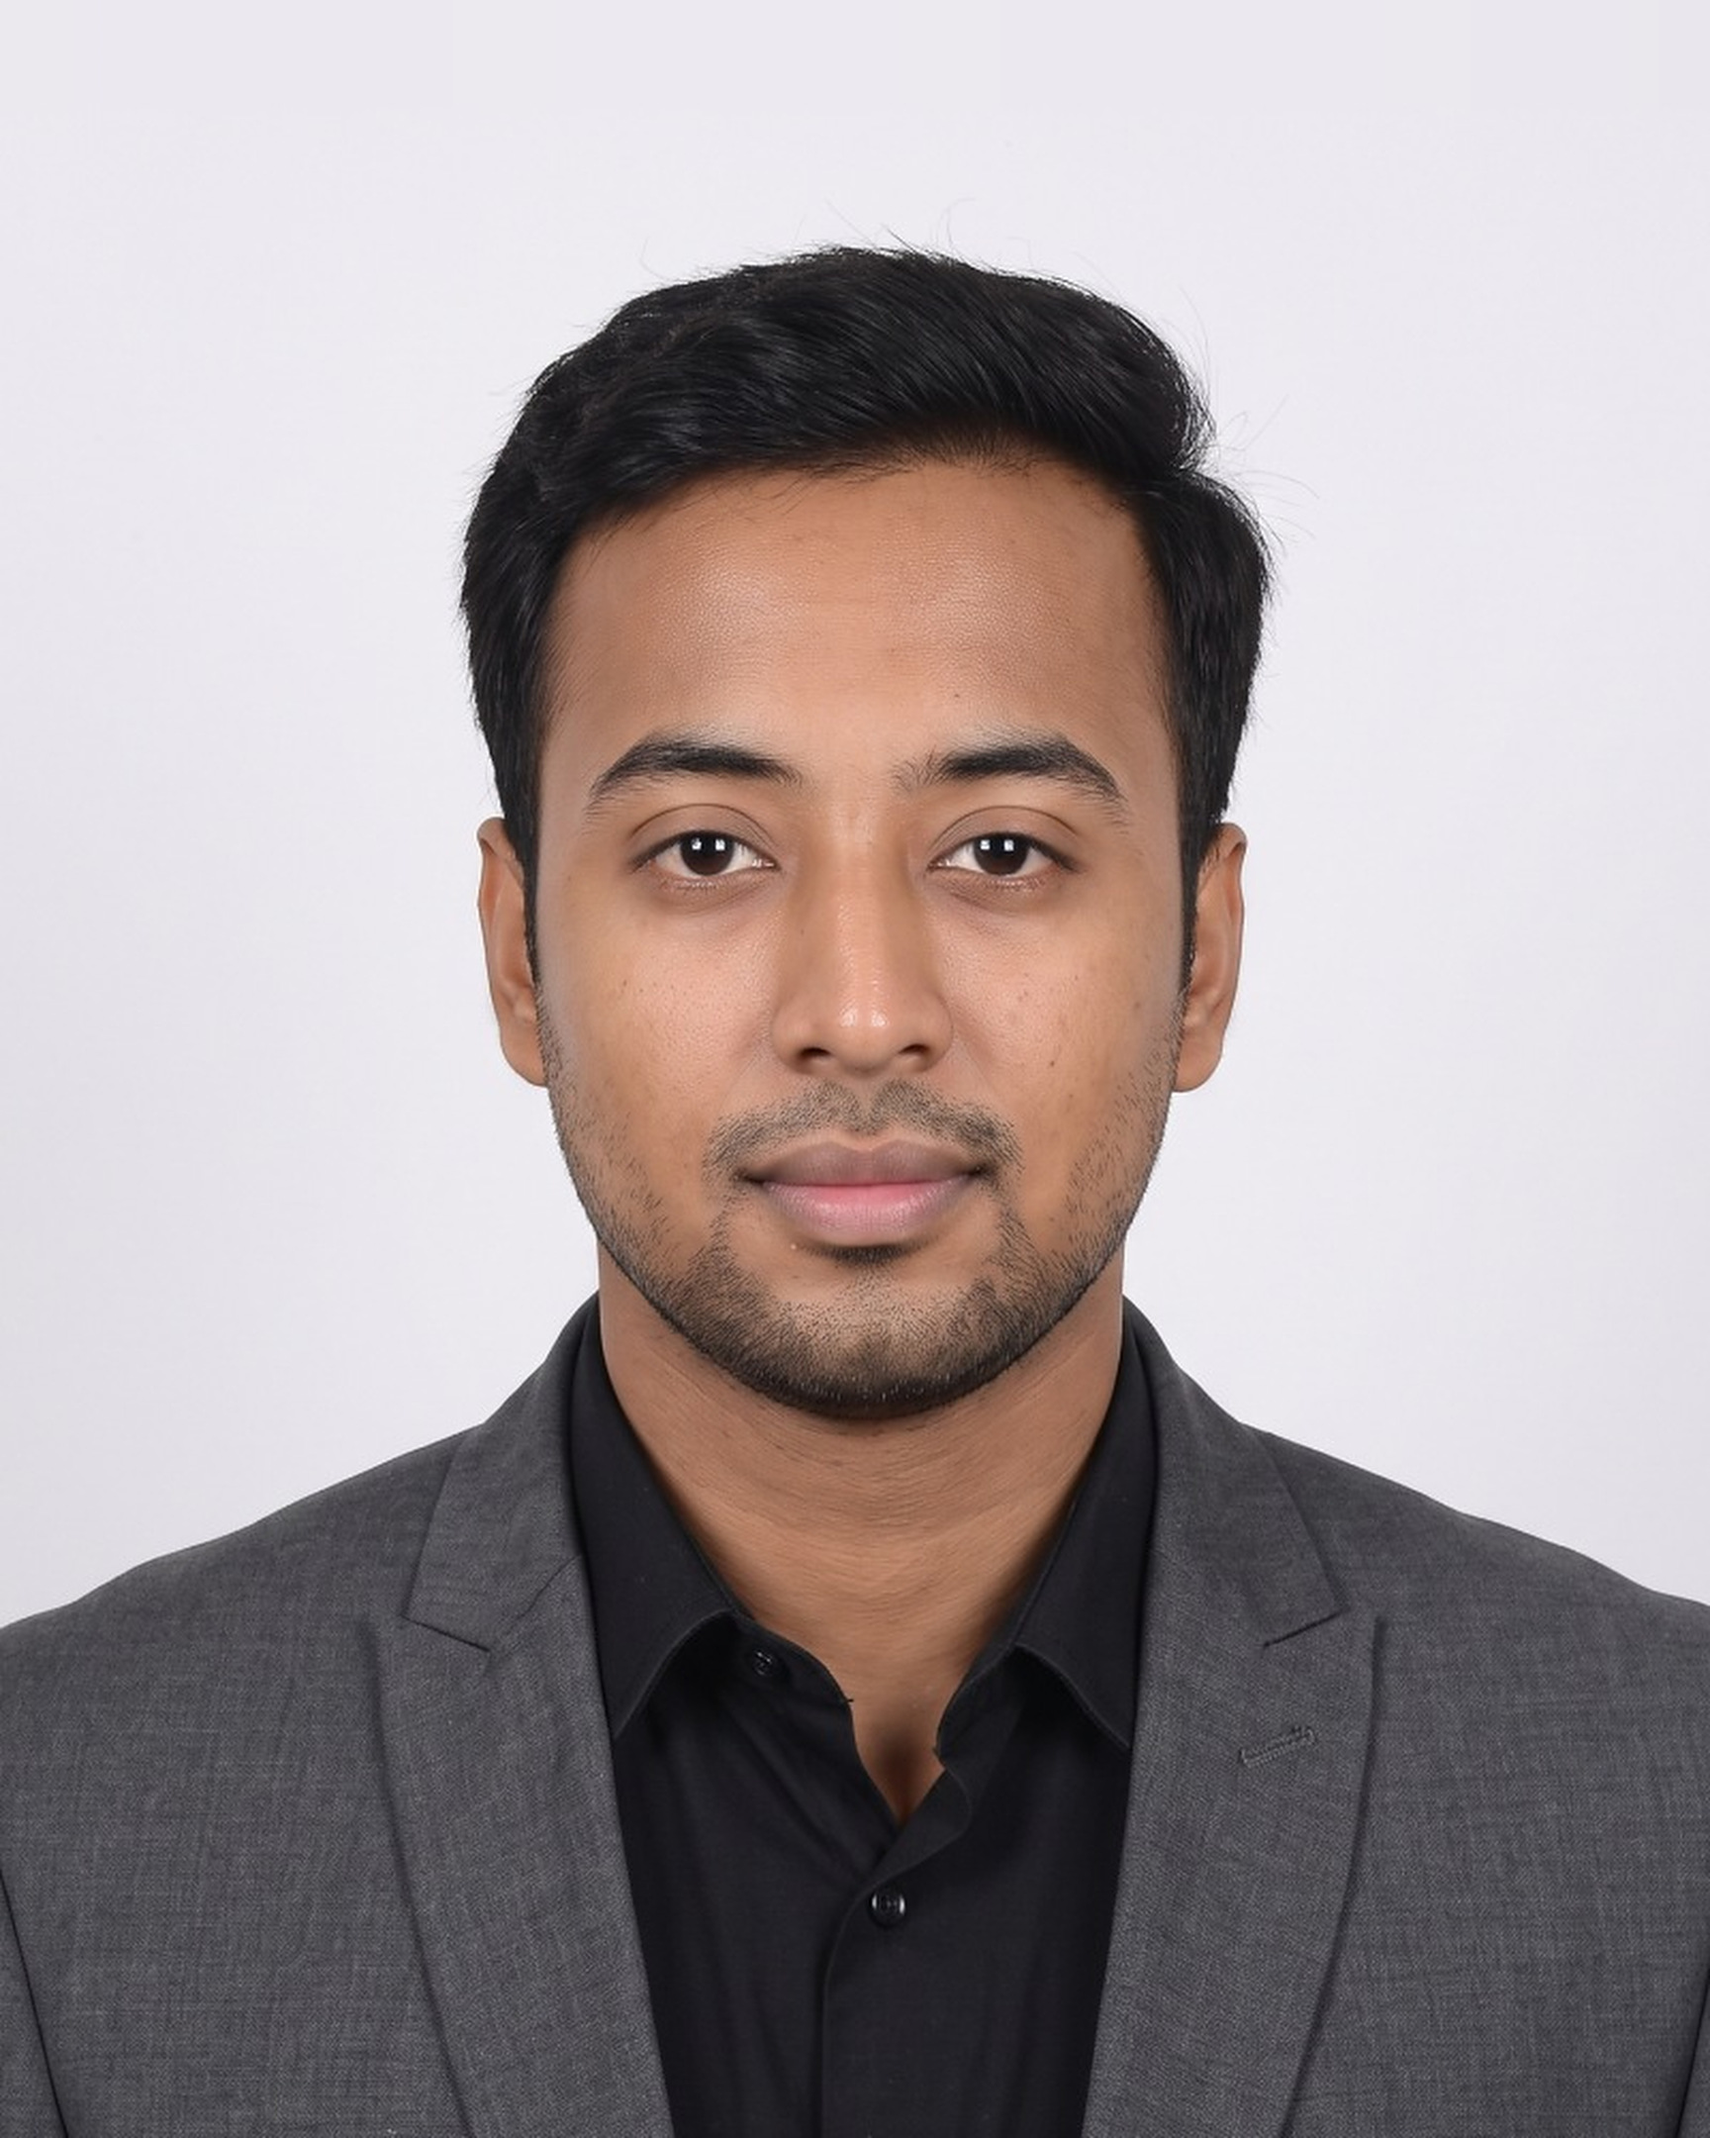
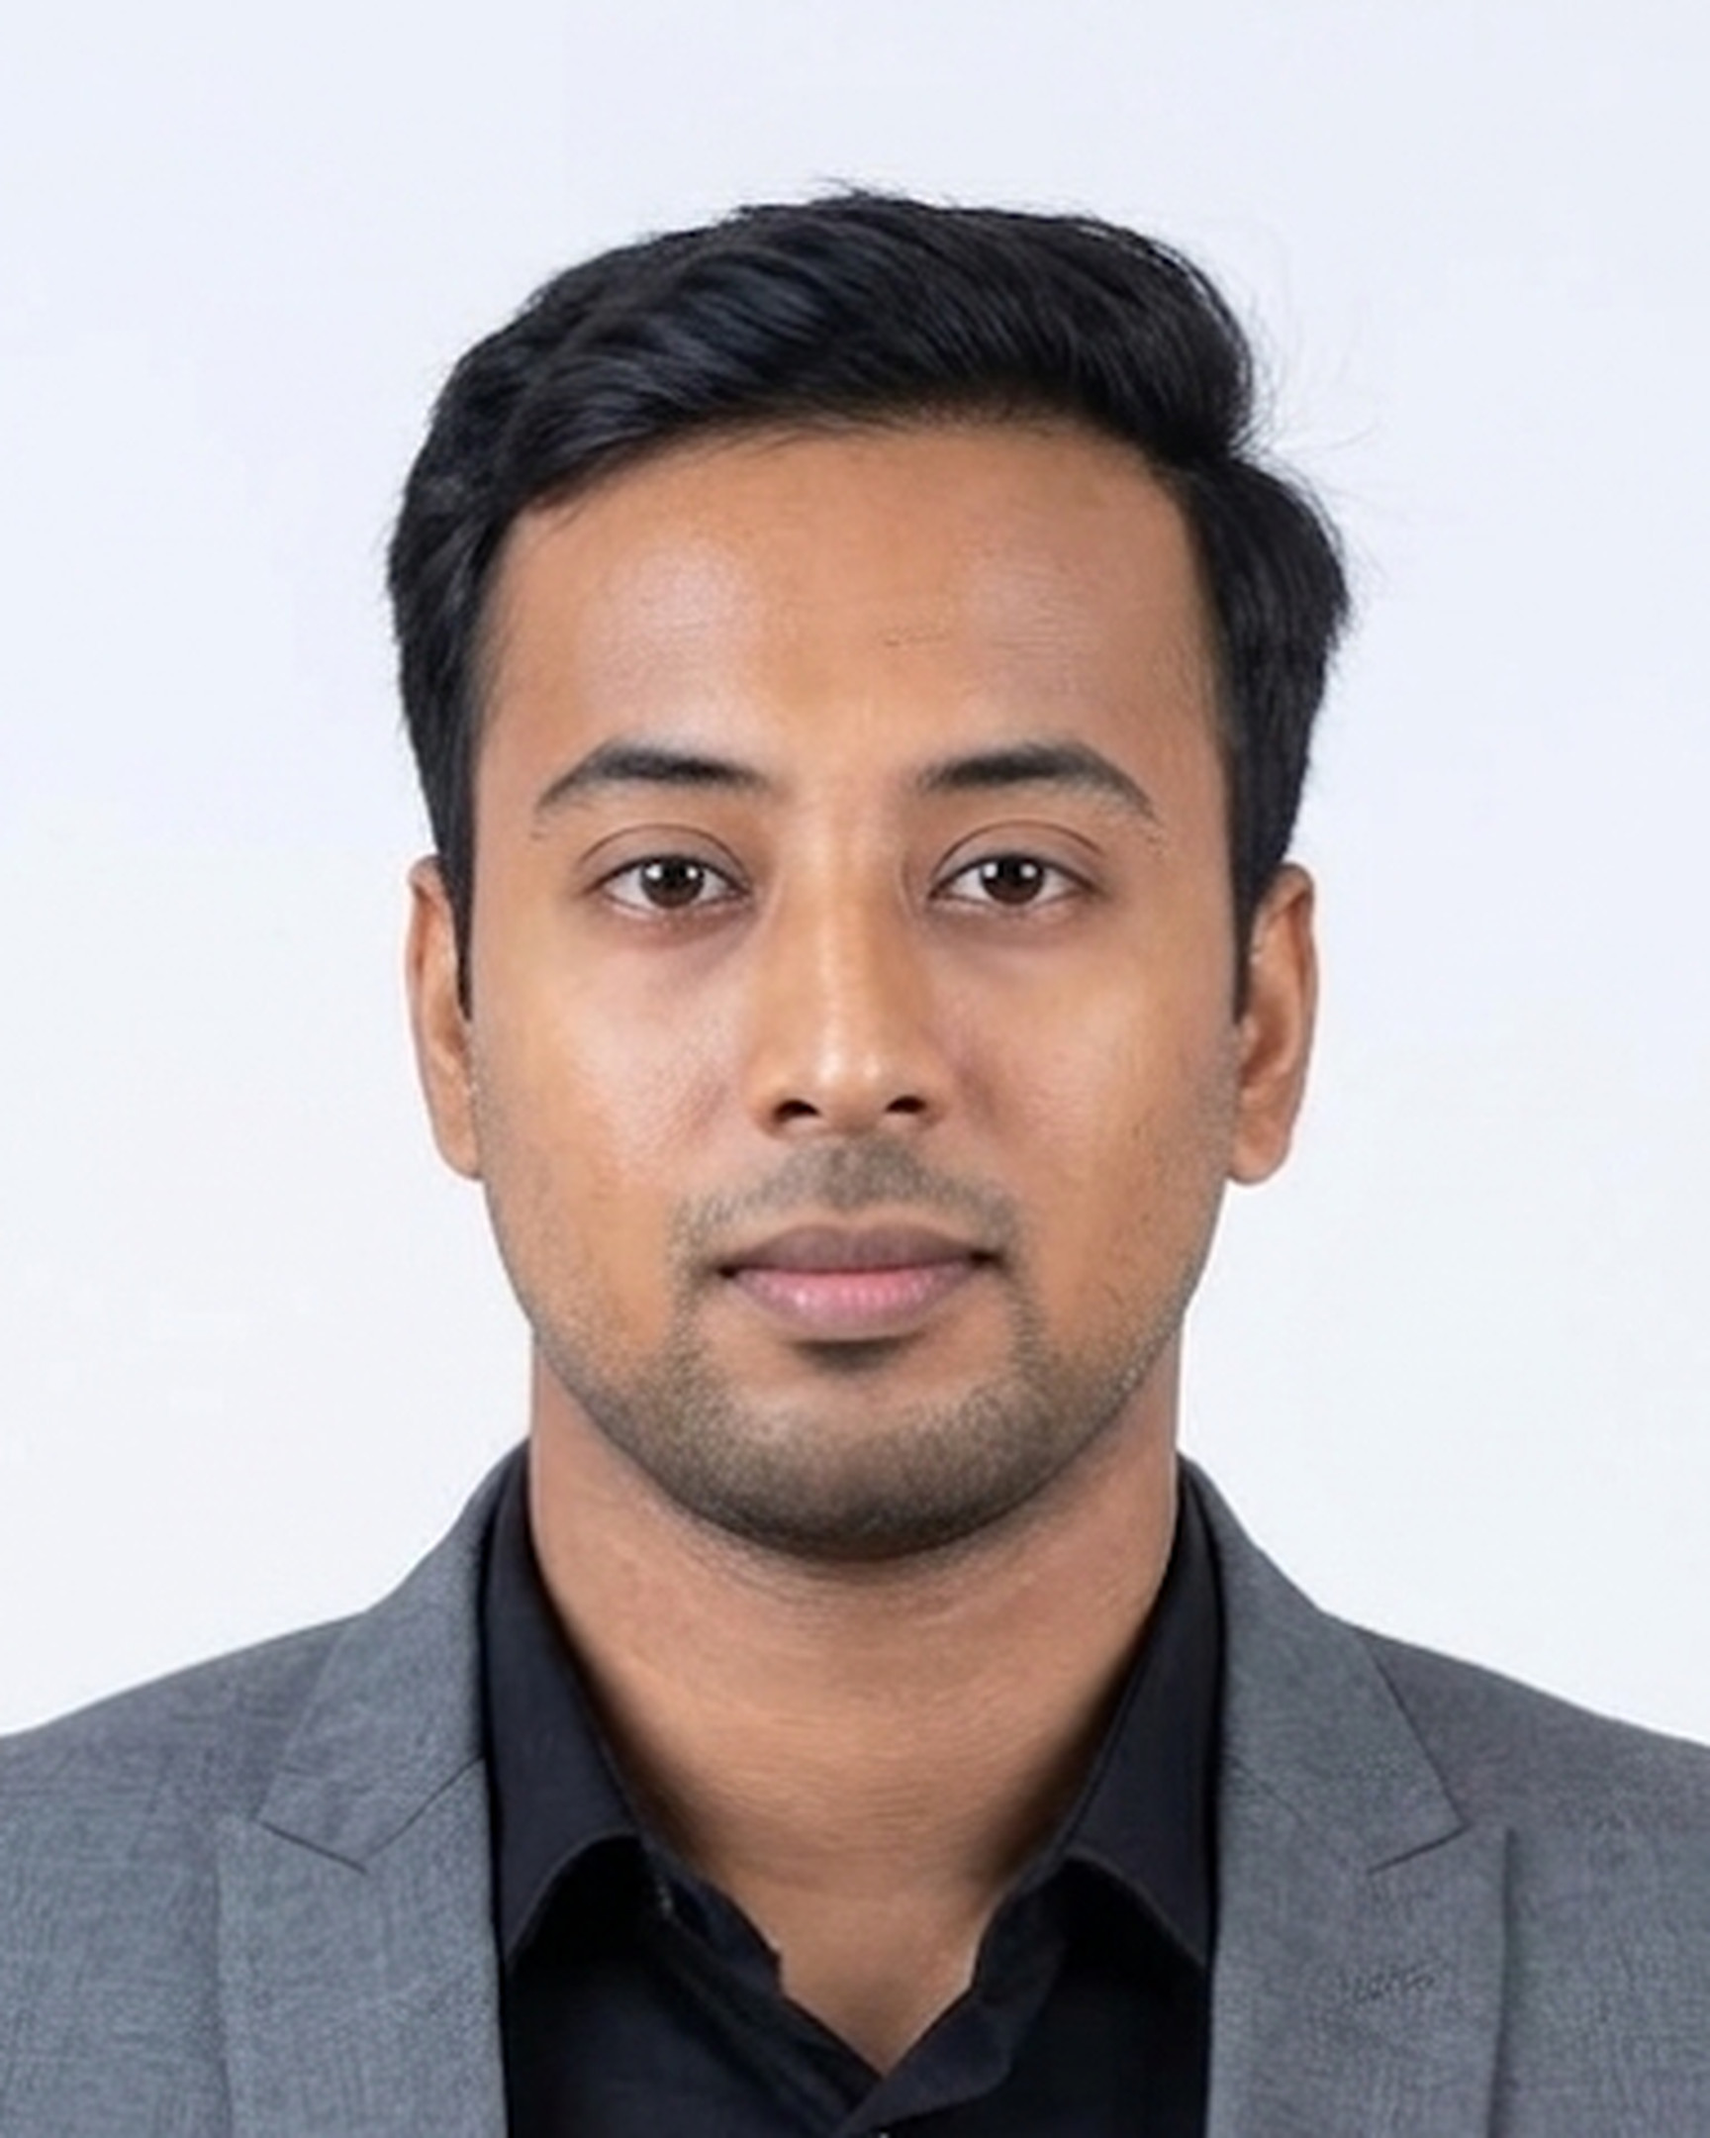
Toha Hossain's new portrait; Toha and Eshan framed like the other cards
- Toha: new photo XFL sent, cropped to 4:5 head and shoulders.
- Eshan: re-cropped tighter so his face sits at the same size and height
  as the other team portraits.
Crop and resize only; faces and backgrounds unchanged. The content seed
swaps both in place, with new face points.

Claude-Session: https://claude.ai/code/session_0188rm5p1Yj2o8wBDkFssMy2

diff --git a/src/content/xfl2/portrait-previous.ts b/src/content/xfl2/portrait-previous.ts
@@ -8,7 +8,7 @@ export const PREVIOUS_PORTRAITS: Record<string, string | string[]> = {
[8 lines of base64/hex data omitted]
@@ -34,5 +34,5 @@ export const PREVIOUS_PORTRAITS: Record<string, string | string[]> = {
[5 lines of base64/hex data omitted]
 };

diff --git a/src/content/xfl2/portrait-focus.ts b/src/content/xfl2/portrait-focus.ts
@@ -10,7 +10,7 @@ export const PORTRAIT_FOCUS: Record<string, { x: number; y: number; zoom?: numbe
   "aminul-islam": { x: 0.484, y: 0.378 },
   "bishnu-pada-kunda": { x: 0.537, y: 0.35 },
   "dilip-kajuri": { x: 0.484, y: 0.352, zoom: 1.08 },
-  "eshan-barua": { x: 0.5, y: 0.4 },
+  "eshan-barua": { x: 0.49, y: 0.47 },
   "fakruddin-ali-ahmed-rajib": { x: 0.53, y: 0.45 }, // re-framed 15 Oct to head and shoulders like the others (plain background extended above)
   "m-shahryar-faiz": { x: 0.524, y: 0.486 },
   "mahmuda-yasmin-farah": { x: 0.496, y: 0.424, zoom: 1.1 },
@@ -36,5 +36,5 @@ export const PORTRAIT_FOCUS: Record<string, { x: number; y: number; zoom?: numbe
   "shamsher-morshed": { x: 0.49, y: 0.43 },
   "sumon-das": { x: 0.501, y: 0.409 },
   "talukder-juhaer-hakim": { x: 0.501, y: 0.434 },
-  "toha-hossain": { x: 0.503, y: 0.428 },
+  "toha-hossain": { x: 0.49, y: 0.51 },
 };
